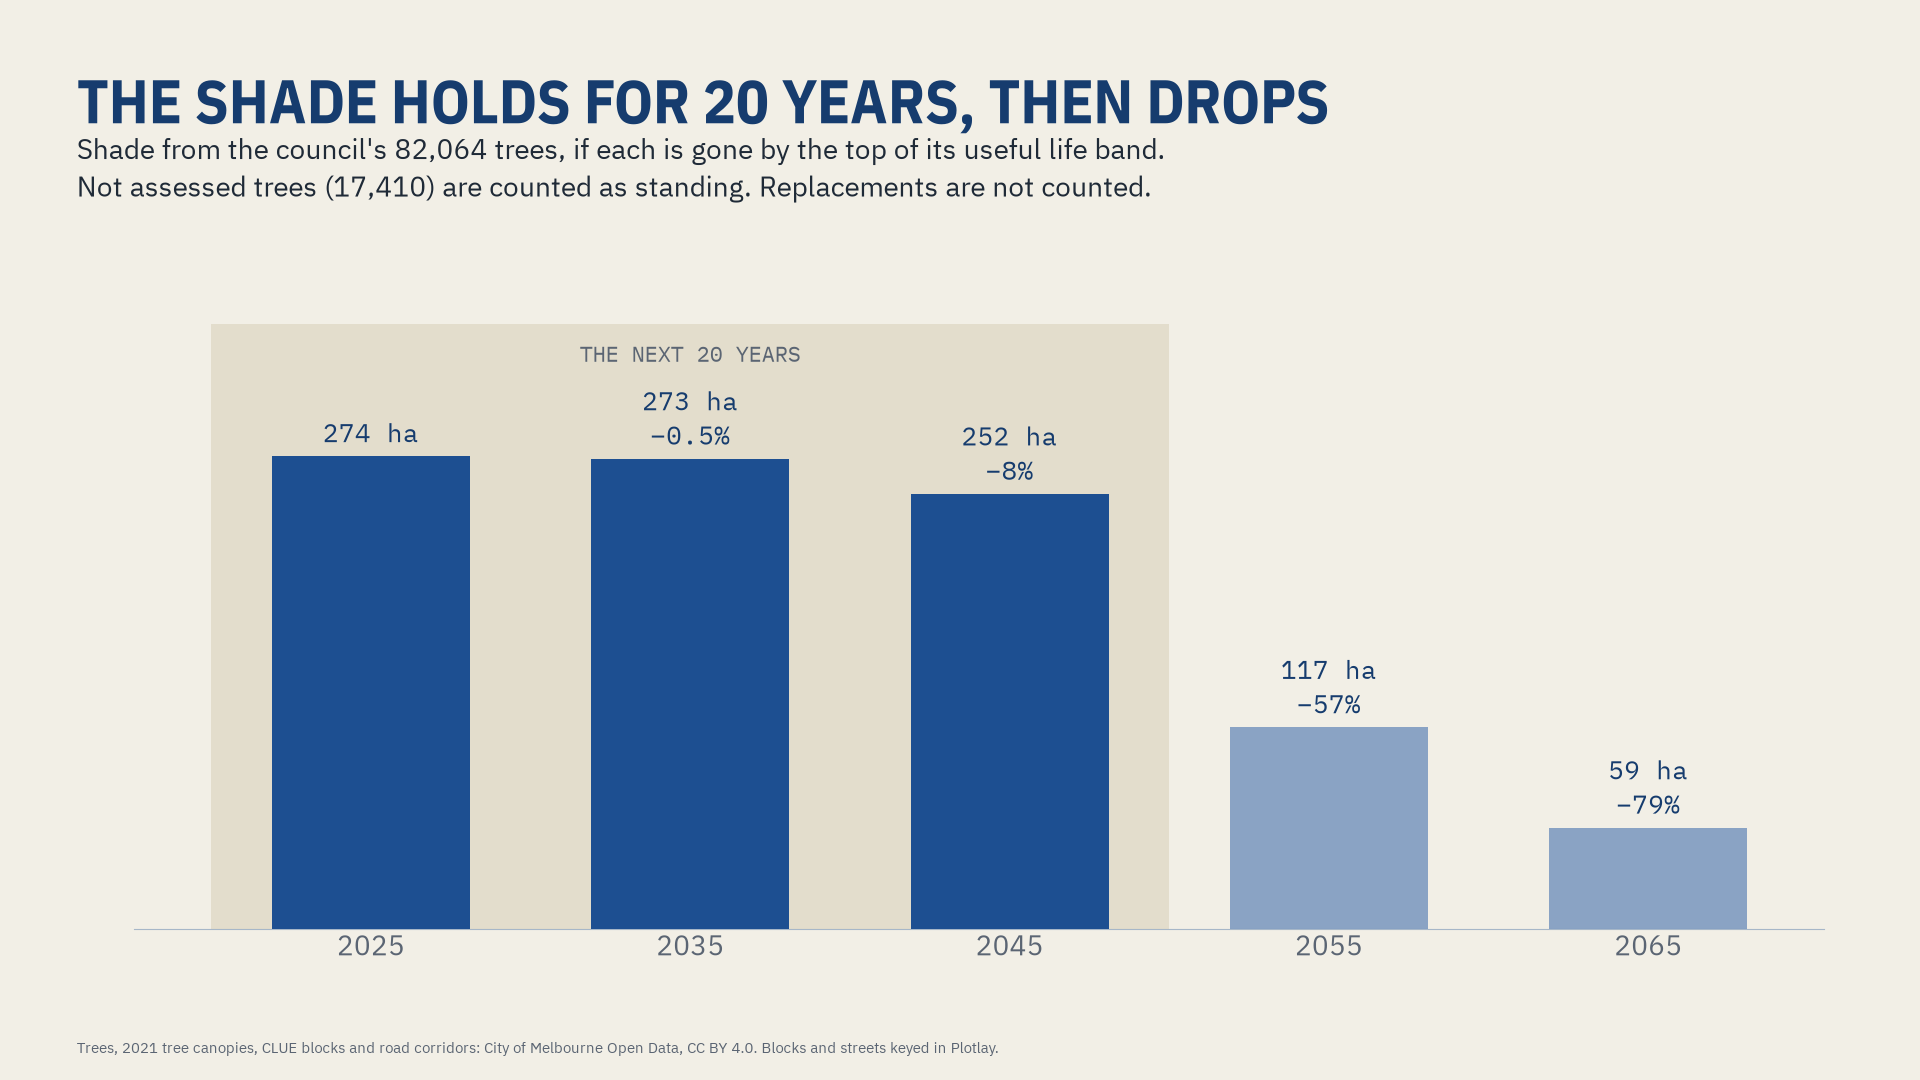
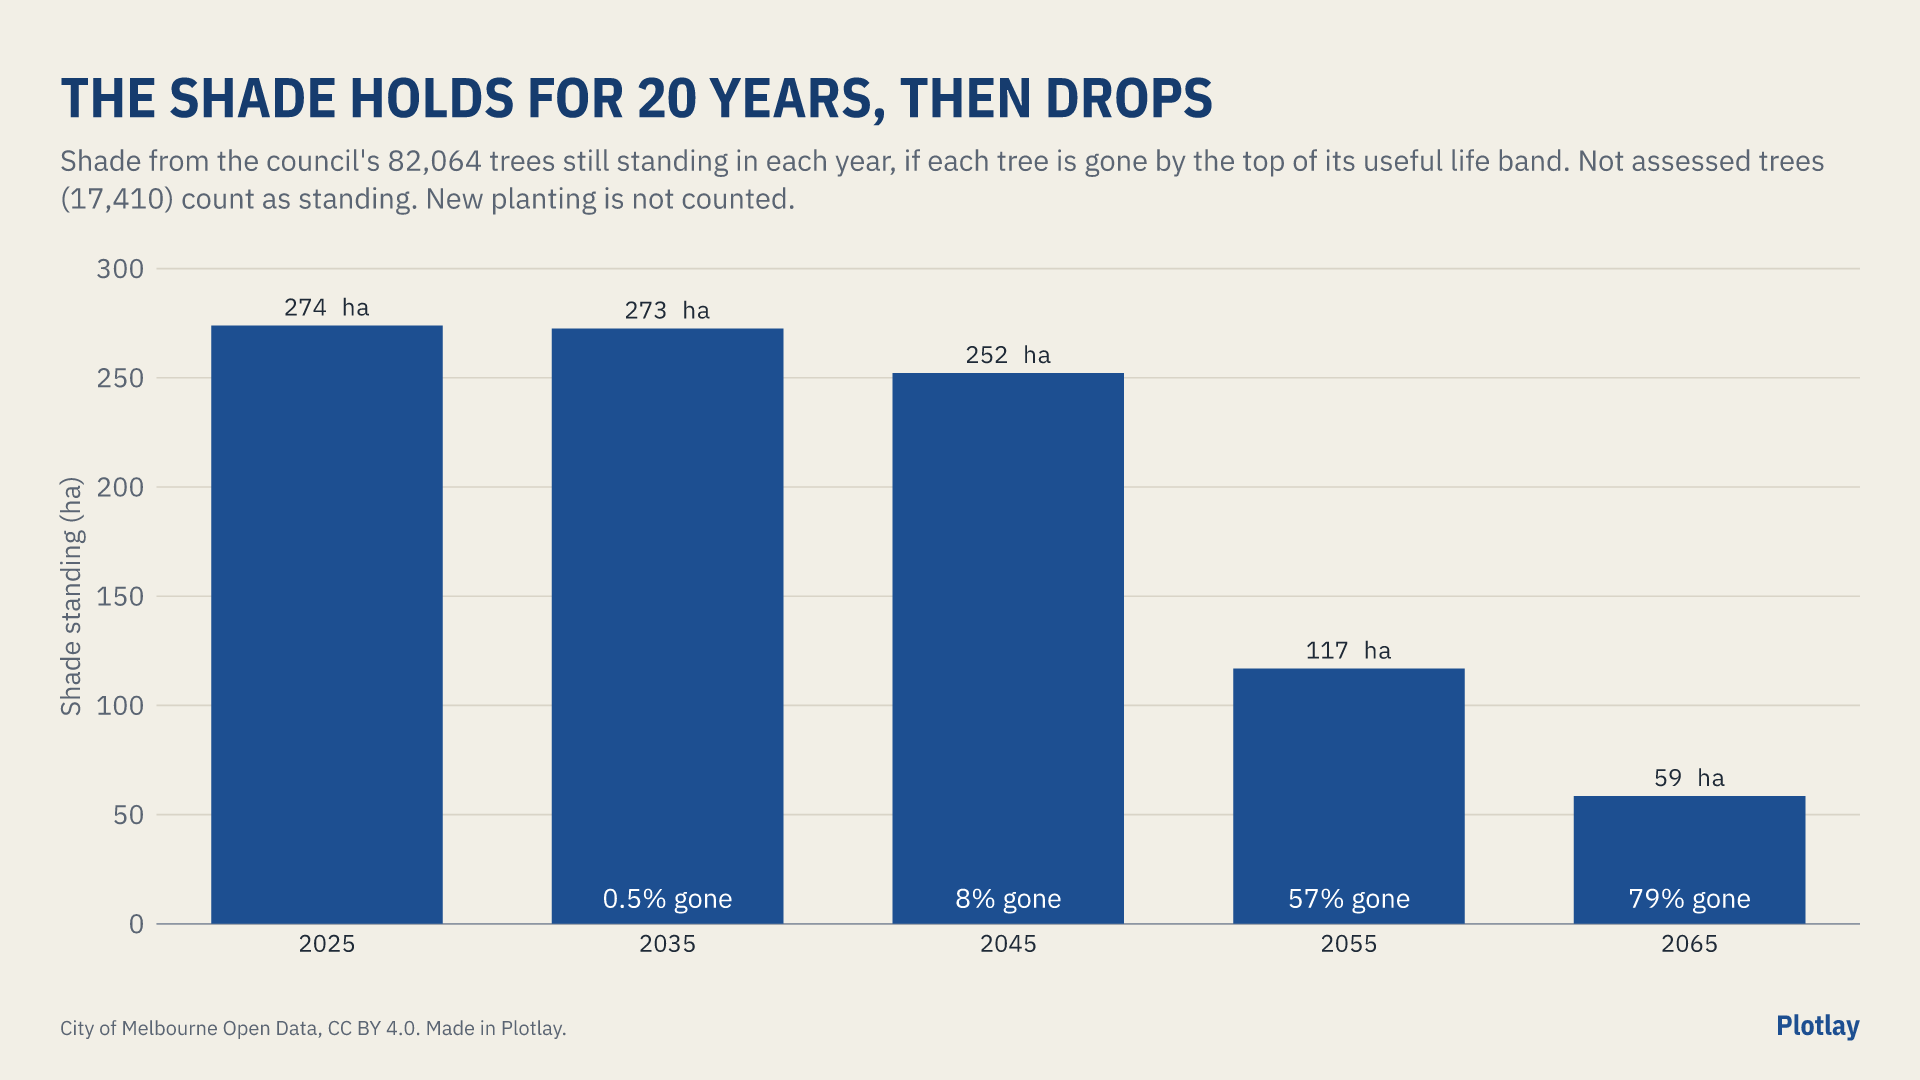
Charts made in Plotlay: shade standing by decade, streets and species losing most by 2045

diff --git a/README.md b/README.md
@@ -53,7 +53,7 @@ The council publishes each tree as a point with its band, and its canopy as outl
 | [`data/trees/`](data/trees) | `trees.csv` (every council tree, its band, `end_by` and `canopy_m2`) and `canopy_by_year.csv` (the slider's table) |
 | [`python/`](python) | A narrated notebook that recomputes every number here: [`where_the_canopy_runs_out.ipynb`](python/where_the_canopy_runs_out.ipynb) |
 | [`powerbi/`](powerbi) | A Power BI Project (`.pbip`). Start with [`powerbi/OPEN-ME.md`](powerbi/OPEN-ME.md) |
-| [`visuals/`](visuals) | The maps, charts and animation |
+| [`visuals/`](visuals) | The maps, charts and animation; the charts made in Plotlay from the layers and tables here |
 
 ### Run the notebook
 
